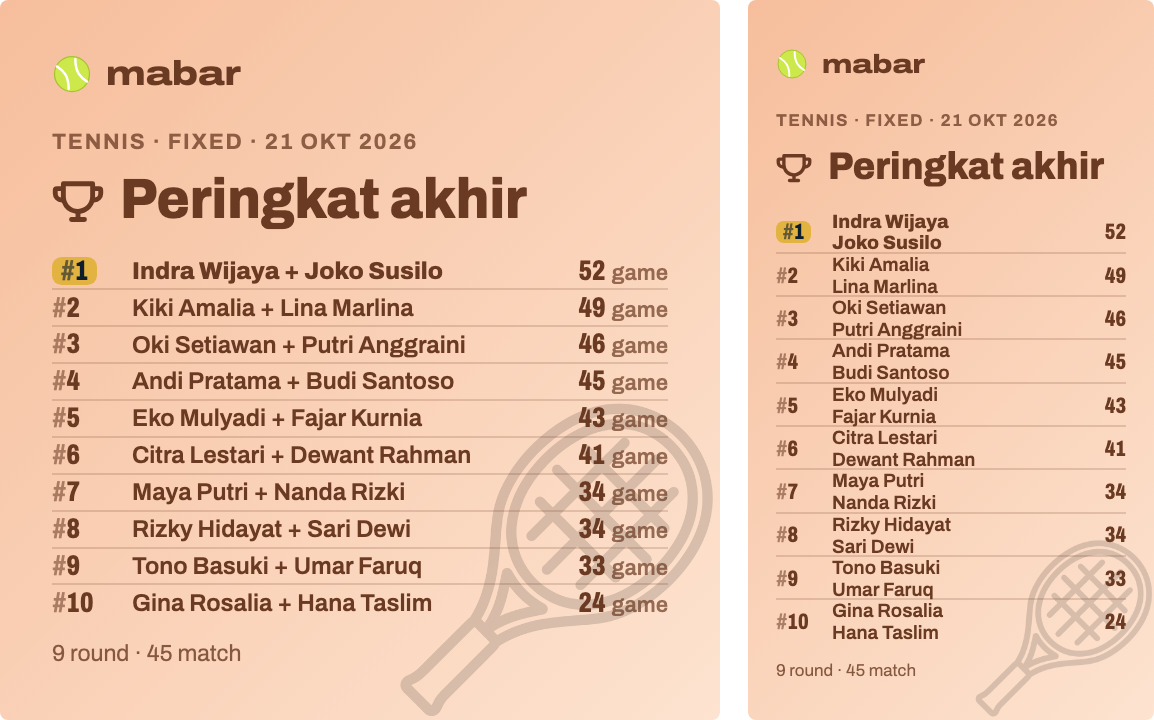
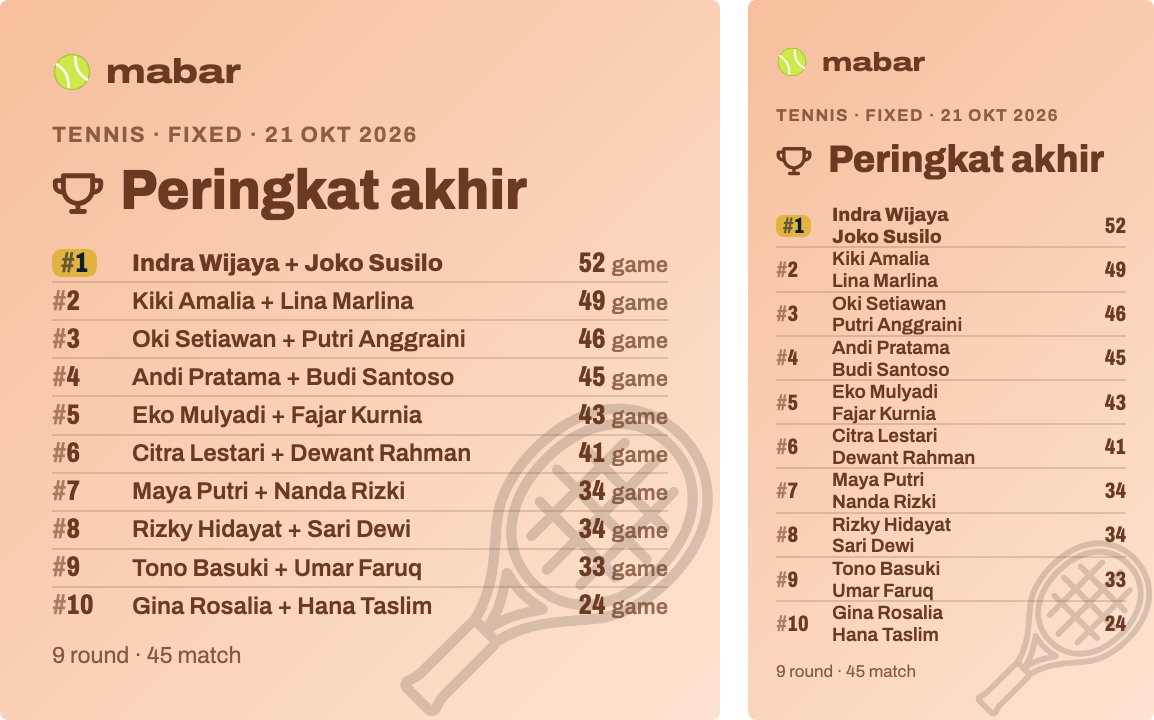
Gambar Feed/Story: line-height 1,4 seperti pratinjau (kaki Feed Ringkas tidak meluber)
Keputusan host: .poster-pair di hi-fi diberi line-height 1.4, frame 11d/11f/11g
di-render ulang; SharePoster memakai 1,4 untuk semua target. Golden 11a–11i lolos.

diff --git a/design/hifi.html b/design/hifi.html
@@ -433,7 +433,9 @@ table.map { width: 100%; border-collapse: collapse; font-size: 14px; min-width: 
 .themes { display: flex; flex-wrap: wrap; gap: 6px; }
 .theme { width: 30px; height: 30px; border-radius: 50%; box-shadow: inset 0 0 0 1px rgba(0,0,0,.08); display: grid; place-items: center; }
 .theme.on { box-shadow: 0 0 0 3px var(--paper), 0 0 0 5px var(--ink); }
-.poster-pair { display: flex; gap: 14px; align-items: flex-start; }
+/* Gambar Feed/Story dirender di luar .app: line-height disamakan dengan kartu pratinjau (keputusan host 2026-10-22,
+   dulu mewarisi 1.55 dan kaki Feed Ringkas meluber dari padding). */
+.poster-pair { display: flex; gap: 14px; align-items: flex-start; line-height: 1.4; }
 .install-step { display: grid; grid-template-columns: 36px minmax(0, 1fr); gap: 12px; align-items: center; font-size: 16px; }
 .install-step .no { width: 36px; height: 36px; border-radius: 10px; background: var(--paper); display: grid; place-items: center; font-size: 18px; color: var(--ink-2); }
 /* Frame 01j: pembanding ikon app */

diff --git a/lib/features/share/widgets/share_poster.dart b/lib/features/share/widgets/share_poster.dart
@@ -90,9 +90,9 @@ class SharePoster extends StatelessWidget {
   bool get _twoColumns => !_story && data.rows.length > 10;
   bool get _stackPairs => _story && data.rows.any((r) => r.names.length > 1);
 
-  /// Tinggi baris yang diwarisi: 1,4 di dalam layar (`.app`); gambar dirancang di luar `.app` sehingga
-  /// mewarisi 1,55 dari dokumen hi-fi — frame 11d/11f/11g memakai itu.
-  double get _lineHeight => target == SharePosterTarget.preview ? 1.4 : 1.55;
+  /// Tinggi baris teks poster, sama di kartu pratinjau dan gambar. Gambar dulu mewarisi 1,55 dari dokumen
+  /// hi-fi dan kaki Feed Ringkas meluber dari padding; disamakan atas keputusan host 2026-10-22.
+  static const _lineHeight = 1.4;
 
   _RowMode get _mode => data.complete
       ? _RowMode.share

diff --git a/design/spec/components.md b/design/spec/components.md
@@ -571,7 +571,7 @@ Dipakai di frame: 11a, 11b, 11c, 11d, 11e, 11f, 11g, 11h, 11i, 11j
 .themes { display: flex; flex-wrap: wrap; gap: 6px; }
 .theme { width: 30px; height: 30px; border-radius: 50%; box-shadow: inset 0 0 0 1px rgba(0,0,0,.08); display: grid; place-items: center; }
 .theme.on { box-shadow: 0 0 0 3px var(--paper), 0 0 0 5px var(--ink); }
-.poster-pair { display: flex; gap: 14px; align-items: flex-start; }
+.poster-pair { display: flex; gap: 14px; align-items: flex-start; line-height: 1.4; }
 ```
 
 ## `InstallStep`
